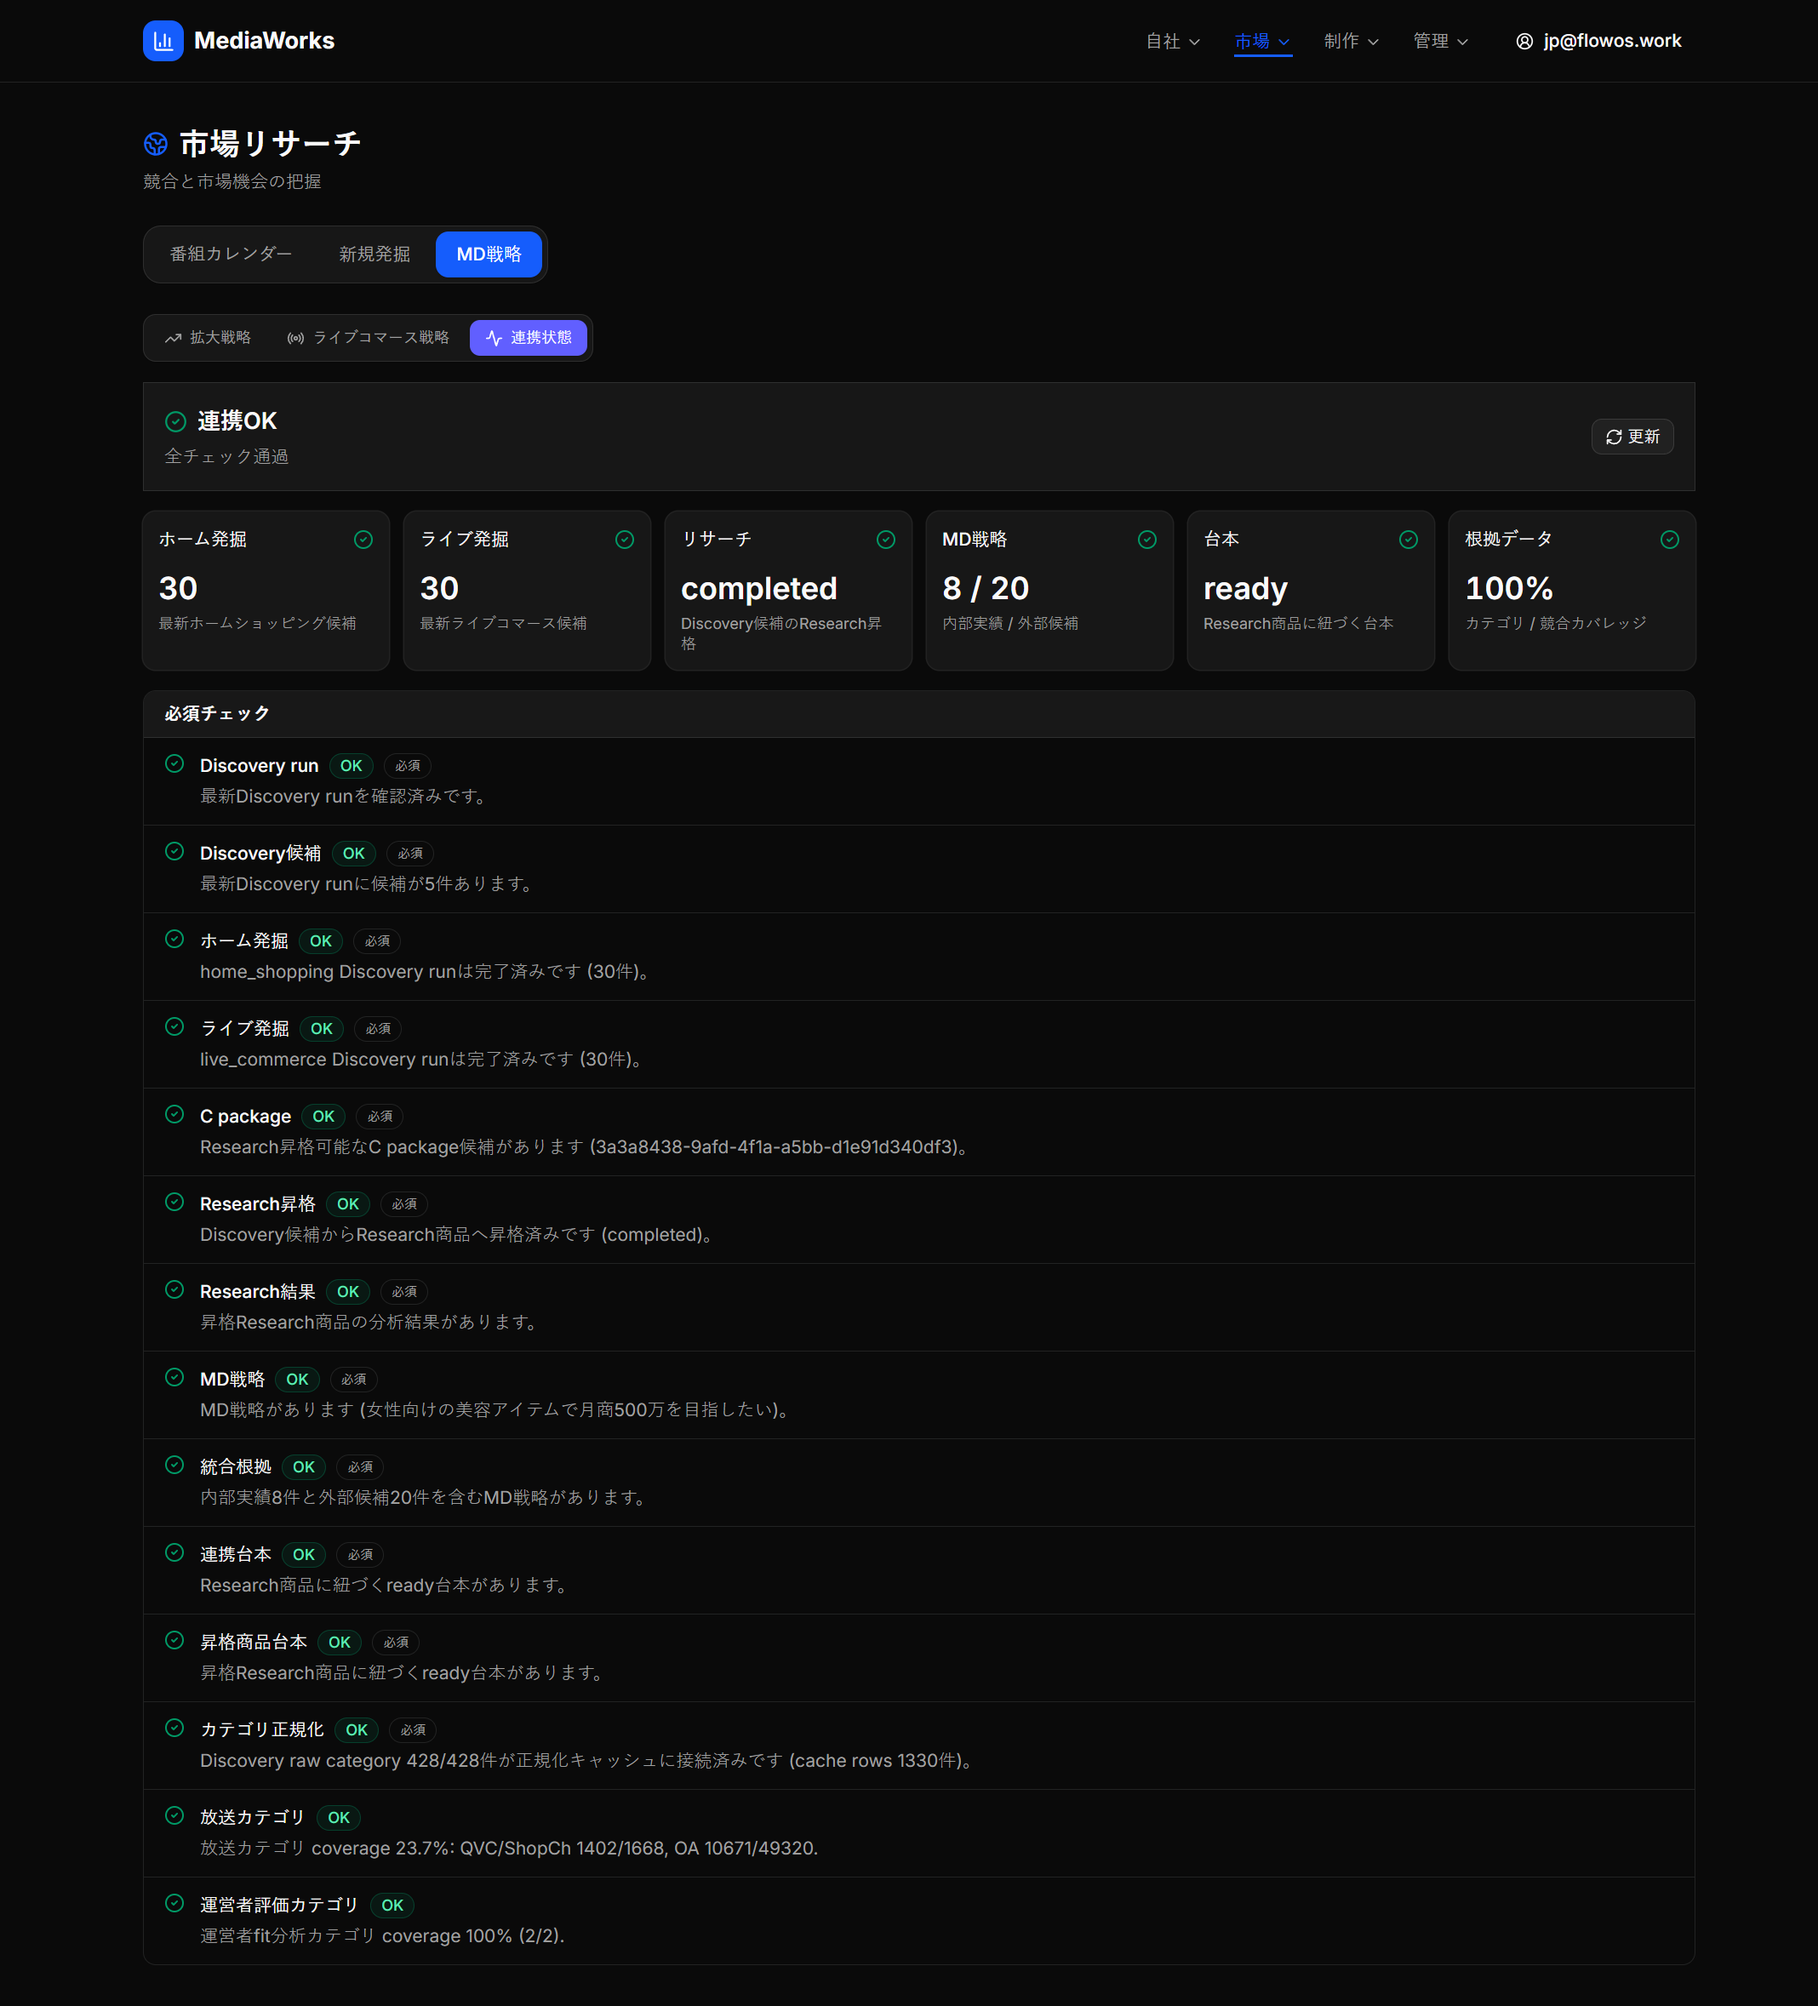
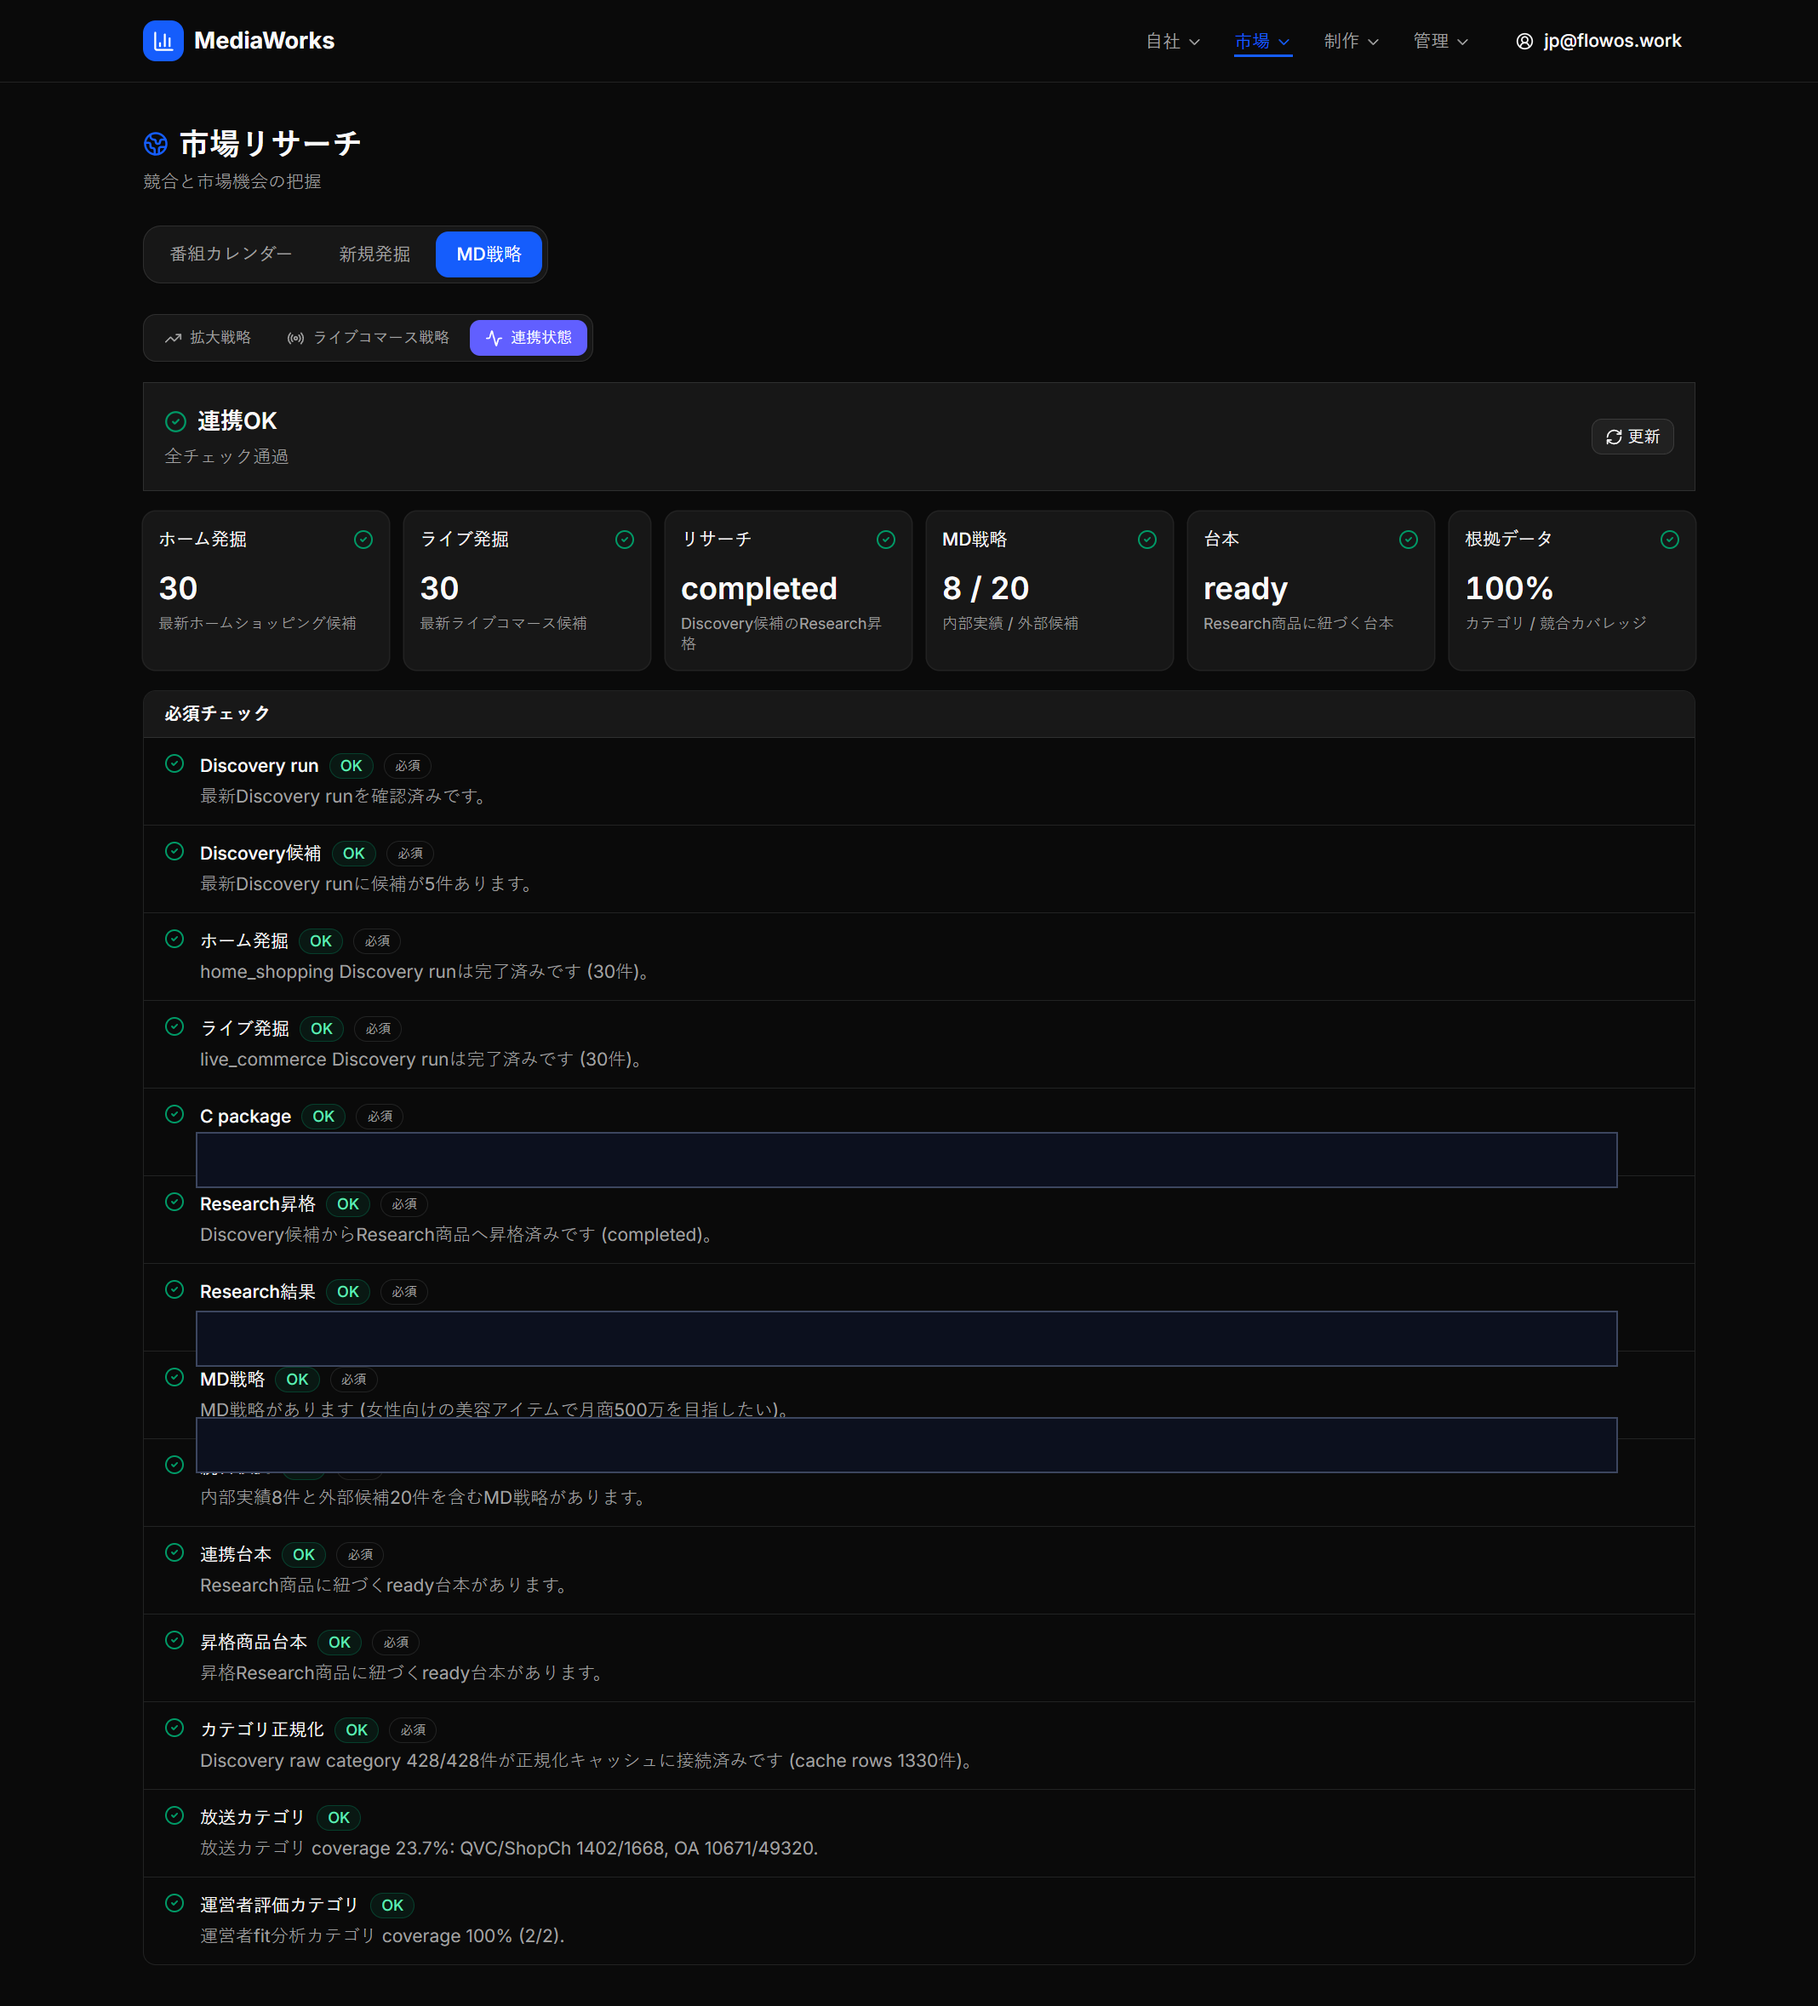
docs(guide): redact private data in JA screenshots
The /public/guide/ja/*.png screenshots are served without auth, so
internal revenue, gross margin %, internal product names, customer
goal text, and a leaked UUID needed to be masked. Add a reproducible
PIL script that paints opaque overlays with a "実データはマスキング
しています" label over the data-heavy regions, preserving navigation
and page identity so the manual still reads as a walkthrough.

Affected images: 01-overview, 02-status-ok (UUID / goal text /
internal-metric lines only), 05-md-strategy-form, 05b-md-strategy-result,
08-screenplays-list, 08b-screenplay-detail. Re-run with:
    python scripts/mask-guide-screenshots.py

diff --git a/scripts/mask-guide-screenshots.py b/scripts/mask-guide-screenshots.py
@@ -1,0 +1,119 @@
+"""
+Redact sensitive data regions in /public/guide/ja/*.png screenshots.
+
+Operates on the production screenshots that ship with the user manual.
+We keep navigation, headers and tabs visible (so users can still recognize
+the screen) and overlay a solid dark redaction layer with a centered
+"実データはマスキングしています" label over the data-heavy body of each
+sensitive page.
+
+Run from project root:
+    python scripts/mask-guide-screenshots.py
+"""
+
+from __future__ import annotations
+
+from pathlib import Path
+from PIL import Image, ImageDraw, ImageFont
+
+ROOT = Path(__file__).resolve().parents[1]
+GUIDE_DIR = ROOT / "public" / "guide" / "ja"
+
+REDACTION_LABEL = "実データはマスキングしています"
+LABEL_COLOR = (235, 235, 240)
+OVERLAY_FILL = (12, 16, 30)        # opaque dark blue, matches dark UI
+BORDER_COLOR = (60, 70, 95)
+
+
+def _font(size: int) -> ImageFont.FreeTypeFont:
+    candidates = [
+        r"C:\\Windows\\Fonts\\YuGothM.ttc",
+        r"C:\\Windows\\Fonts\\meiryo.ttc",
+        r"C:\\Windows\\Fonts\\msgothic.ttc",
+        r"C:\\Windows\\Fonts\\arial.ttf",
+    ]
+    for c in candidates:
+        try:
+            return ImageFont.truetype(c, size)
+        except Exception:  # noqa: BLE001
+            continue
+    return ImageFont.load_default()
+
+
+def draw_redaction(img: Image.Image, box: tuple[int, int, int, int], label: str | None) -> None:
+    """Paint an opaque rectangle and an optional centered label."""
+    draw = ImageDraw.Draw(img)
+    x0, y0, x1, y1 = box
+    draw.rectangle((x0, y0, x1, y1), fill=OVERLAY_FILL, outline=BORDER_COLOR, width=2)
+    if label:
+        font = _font(46)
+        tbox = draw.textbbox((0, 0), label, font=font)
+        tw, th = tbox[2] - tbox[0], tbox[3] - tbox[1]
+        cx = (x0 + x1) // 2 - tw // 2
+        cy = (y0 + y1) // 2 - th // 2
+        draw.text((cx, cy), label, fill=LABEL_COLOR, font=font)
+
+
+def mask_image(path: Path, regions: list[tuple[tuple[int, int, int, int], str | None]]) -> None:
+    img = Image.open(path).convert("RGB")
+    for box, label in regions:
+        draw_redaction(img, box, label)
+    img.save(path, optimize=True)
+    print(f"masked {path.name}")
+
+
+# Region tables — coordinates are in the source image resolution captured at
+# 1440x900 viewport with DPR=1.5 (so files are 2160x1350, except 02-status-ok
+# which is full-page 2136x2357).
+
+JOBS: dict[str, list[tuple[tuple[int, int, int, int], str | None]]] = {
+    # Self-company sales overview — every value below the sub-tab bar is private.
+    "01-overview.png": [
+        ((100, 380, 2060, 1340), REDACTION_LABEL),
+    ],
+    # MD strategy form — only the "分析データプレビュー" panel exposes internals
+    # (total revenue, gross margin %, product count, weeks counted, TOP 5
+    # internal products, and a category bar chart of sales). Mask just that
+    # panel; extend to image bottom so TOP5 row doesn't peek through.
+    "05-md-strategy-form.png": [
+        ((50, 1040, 2110, 1350), REDACTION_LABEL),
+    ],
+    # MD strategy result — the entire body below the page tabs cites internal
+    # product names, internal margin %, and customer goal text.
+    "05b-md-strategy-result.png": [
+        ((80, 400, 2080, 1340), REDACTION_LABEL),
+    ],
+    # Connection-status screen — the UUID in the C package row, the goal text
+    # in MD戦略, and the internal/external counts in 統合根拠. All others
+    # (status names, OK badges, descriptions) are non-sensitive.
+    "02-status-ok.png": [
+        # C package UUID line
+        ((230, 1330, 1900, 1395), None),
+        # MD戦略 goal text
+        ((230, 1540, 1900, 1605), None),
+        # 統合根拠 internal/external counts
+        ((230, 1665, 1900, 1730), None),
+    ],
+    # Screenplay list — first few titles include both internal and partner
+    # products. Cover the title column body only.
+    "08-screenplays-list.png": [
+        ((130, 360, 1700, 1340), REDACTION_LABEL),
+    ],
+    # Screenplay detail — pricing copy, internal product context, full ad copy.
+    "08b-screenplay-detail.png": [
+        ((100, 360, 2060, 1350), REDACTION_LABEL),
+    ],
+}
+
+
+def main() -> None:
+    for name, regions in JOBS.items():
+        path = GUIDE_DIR / name
+        if not path.exists():
+            print(f"skip (missing): {name}")
+            continue
+        mask_image(path, regions)
+
+
+if __name__ == "__main__":
+    main()
